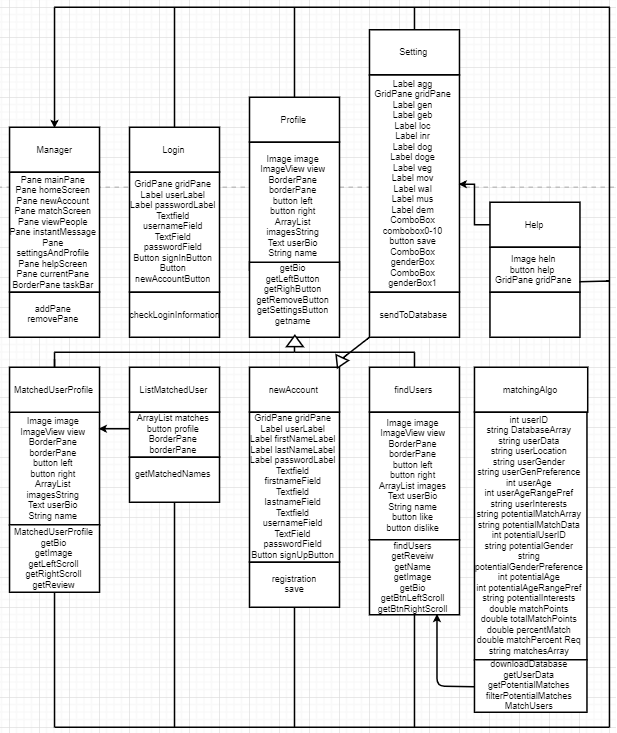
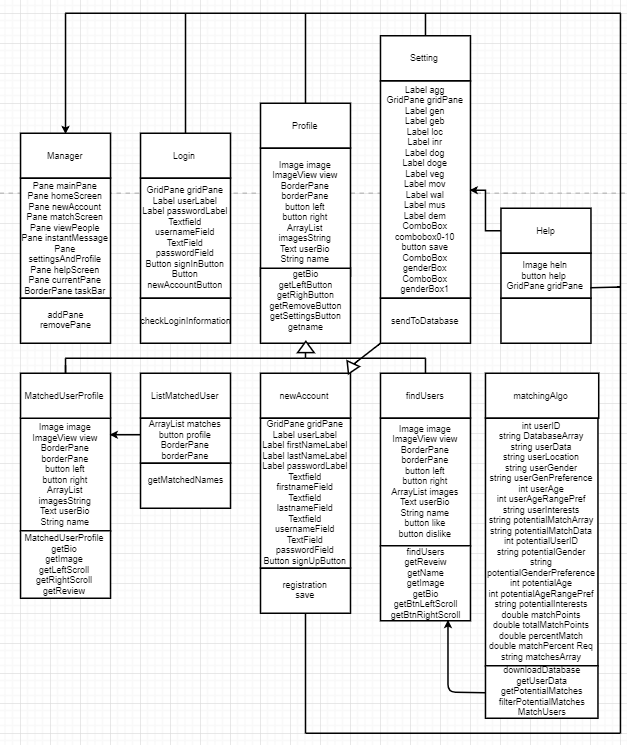
Settings without joke genders
most recent working version

Changed region(s): [[0.0, 0.0, 1.0, 1.0]]

diff --git a/Setting.java b/Setting.java
@@ -10,7 +10,11 @@ import javafx.scene.control.Label;
 import javafx.scene.layout.GridPane;
 import javafx.stage.Stage;
 
-
+/**
+ * 
+ * @author super
+ *
+ */
 public class Setting extends Application  {
 
 
@@ -20,17 +24,11 @@ public class Setting extends Application  {
 
         ObservableList<String> options = 
         	    FXCollections.observableArrayList(
-        	        "Scranton",
+        	        "Holly Hill",
         	        "Port Orange",
         	        "Daytona",
-        	        "Disney",
-        	        "I dont know/unsure",
-        	        "600 Pennsylvania Ave.",
-        	        "1725 Slough Ave",
-        	        "Detroit",
-        	        "Asia",
-        	        "South Africa",
-        	        "Not listed"
+        	        "Deland",
+        	        "Ormond Beach"
         	    );
         ObservableList<String> yesno = 
         	    FXCollections.observableArrayList(
@@ -64,11 +62,7 @@ public class Setting extends Application  {
         	    FXCollections.observableArrayList(
         	        "Male",
         	        "Female",
-        	        "None",
-        	        "Assault vehicle",
-        	        "Yes/all",
-        	        "Transgendered",
-        	        "Chinese"
+        	        "Other"
         	    );
         ComboBox genderBox = new ComboBox(optionn);
         ComboBox genderBox1 = new ComboBox(optionn);
